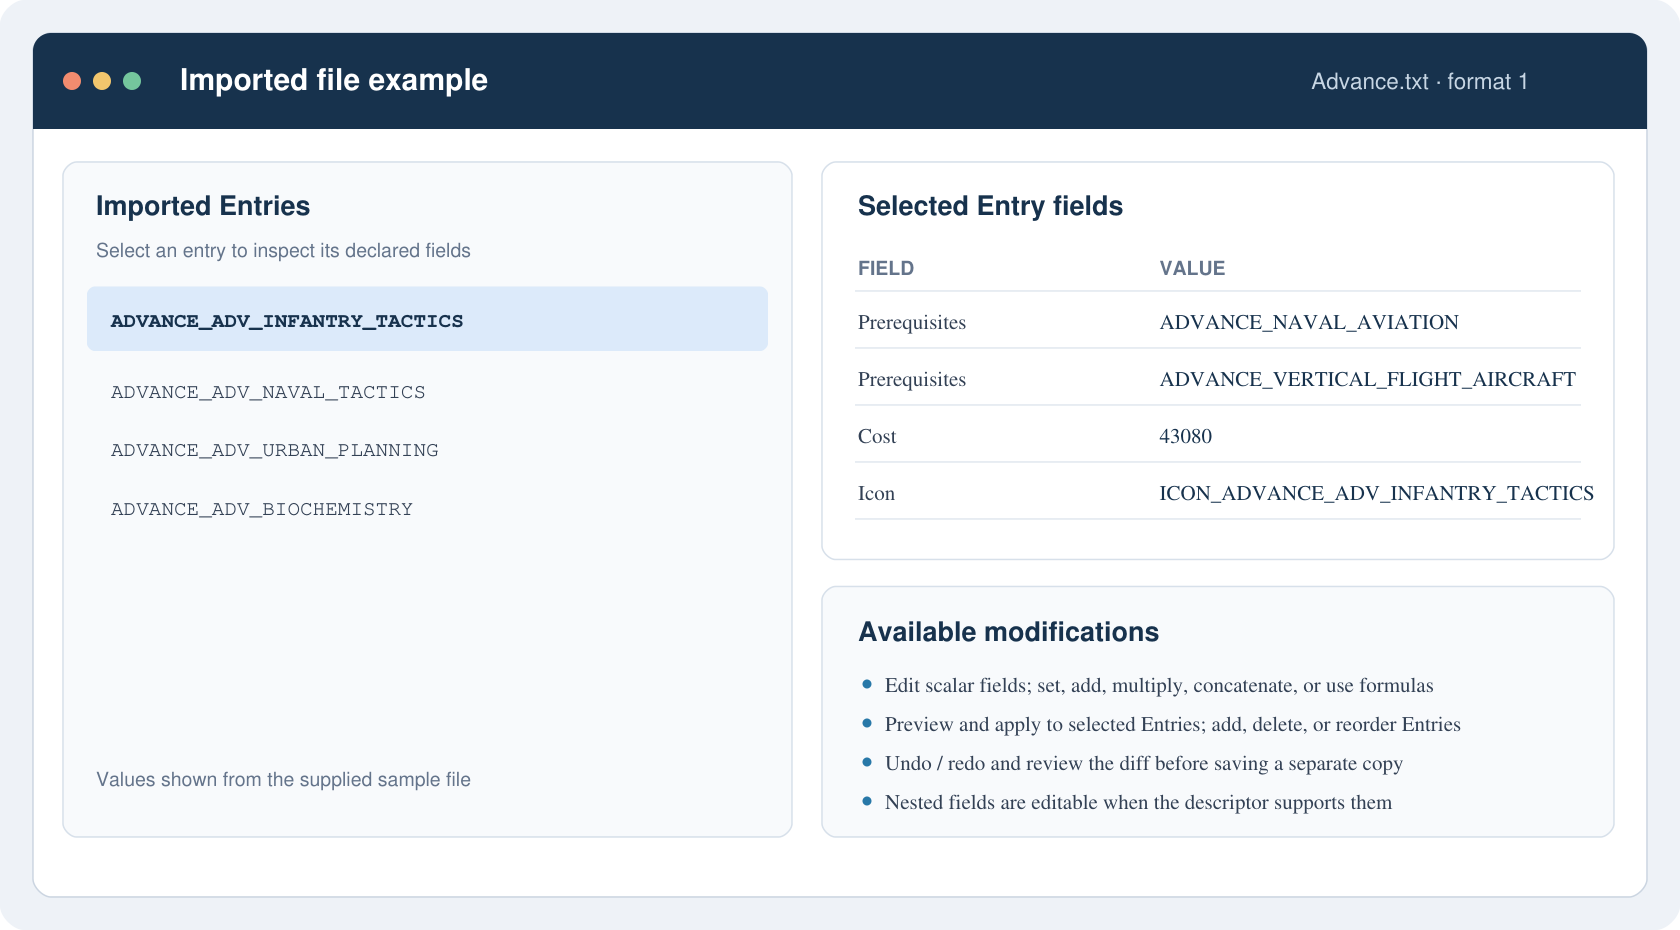
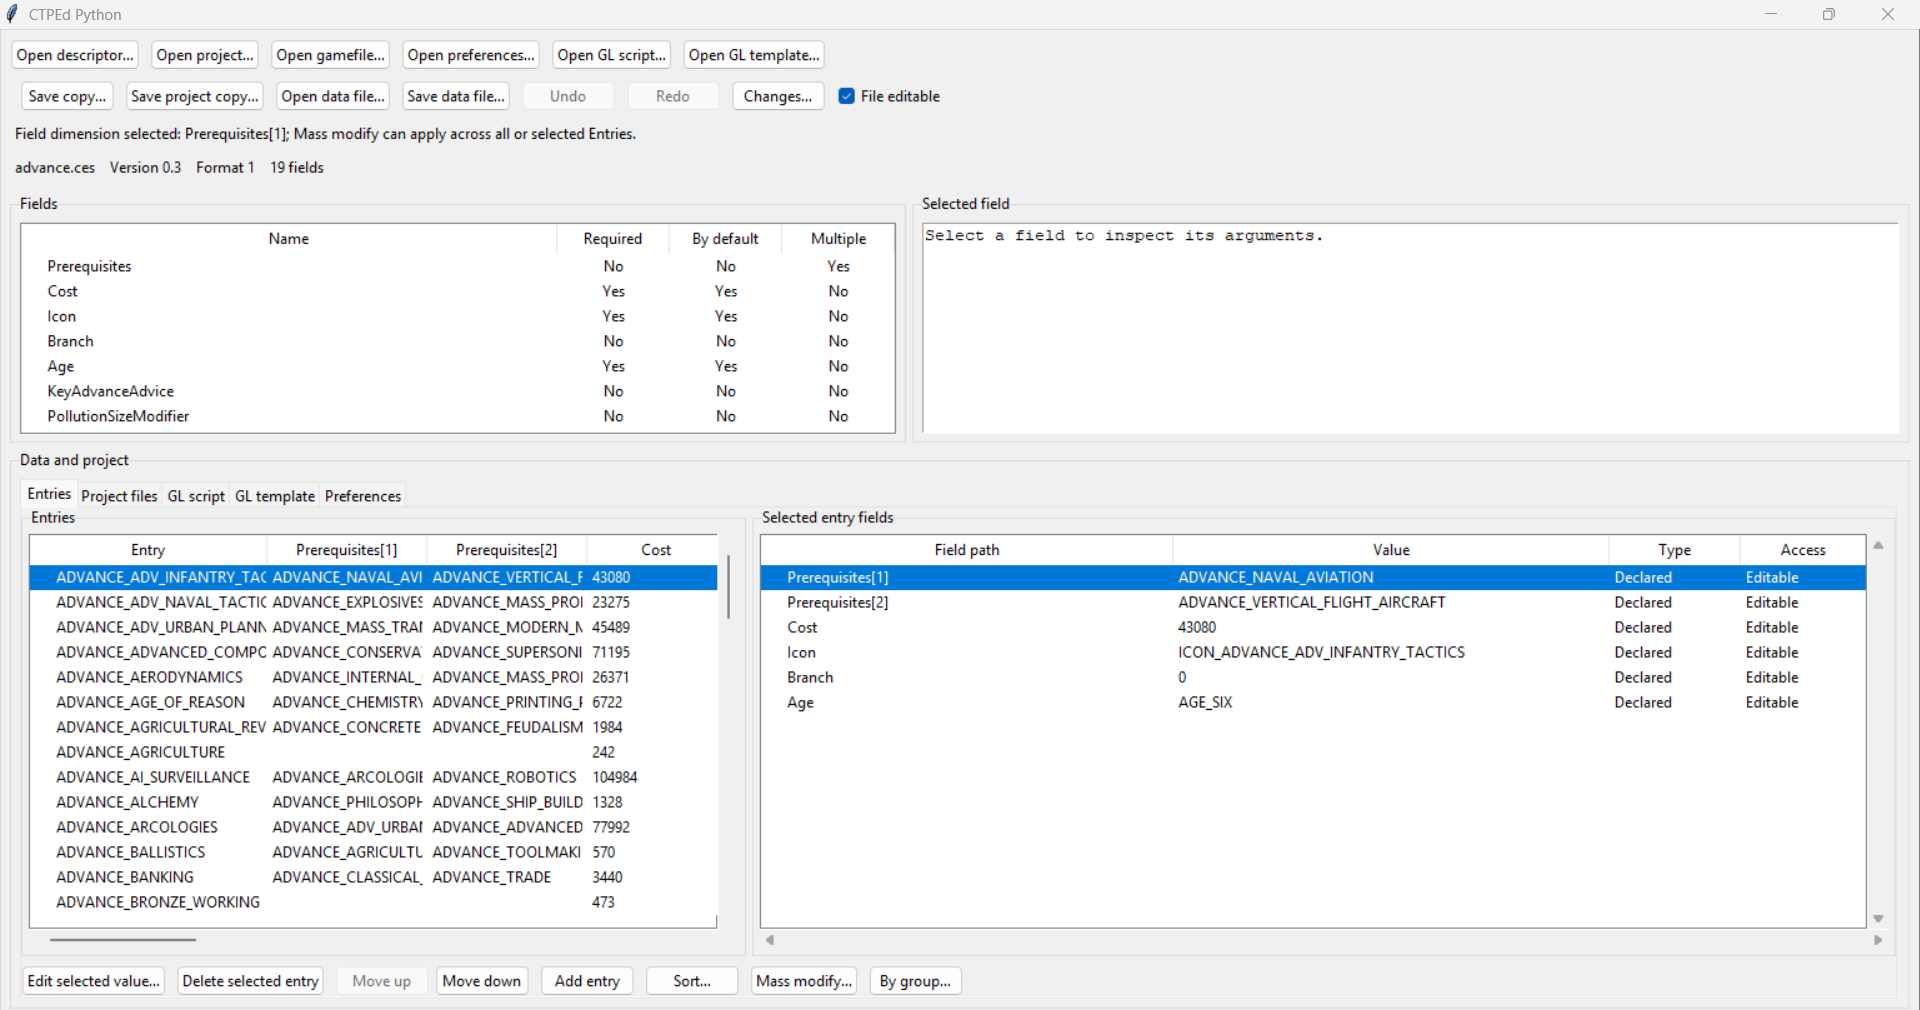
docs: show real CTPEd import example

diff --git a/README.md b/README.md
@@ -20,7 +20,7 @@ Download the [Windows x64 distribution](releases/CTPEdPython-Windows-x64.zip), e
 
 ### Imported file example
 
-This example uses the supplied `Advance.txt` data and its `advance.ces` structure. Import a declared file, select an Entry to inspect its fields, and make changes in memory before saving a copy.
+Captured in the Windows executable after opening the base gamefile and importing its `Advance.txt` file with the `advance.ces` structure. The selected Entry and editable fields are shown; no values were changed.
 
 ![Example Advance.txt record and the editor's available modifications](docs/images/advance-import-example.png)
 
